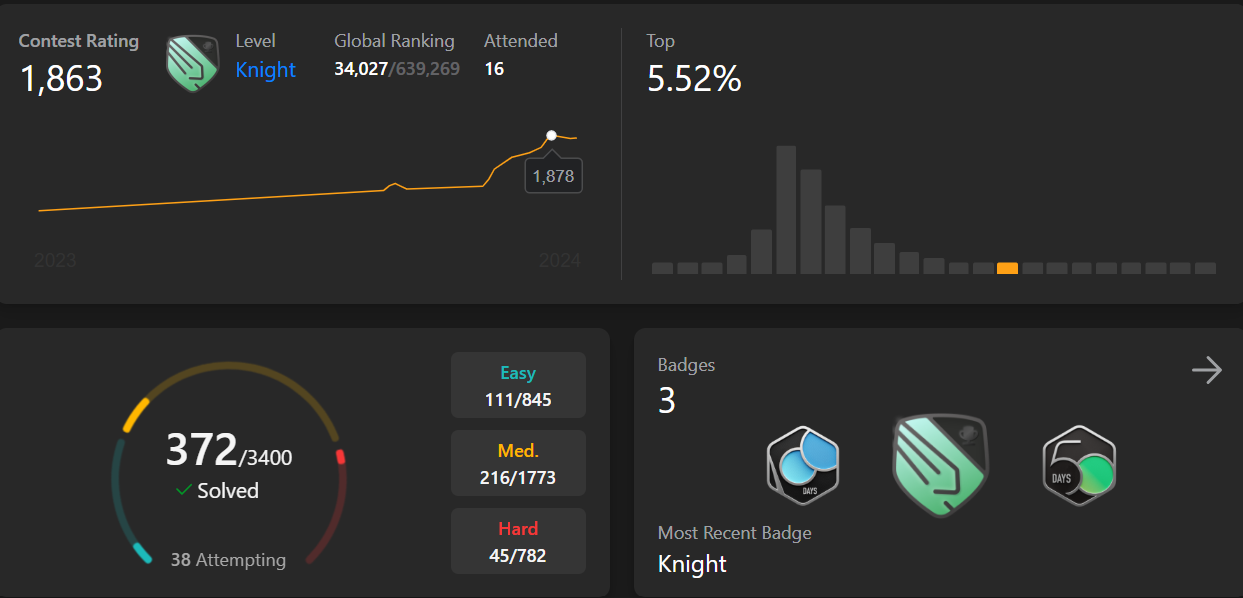
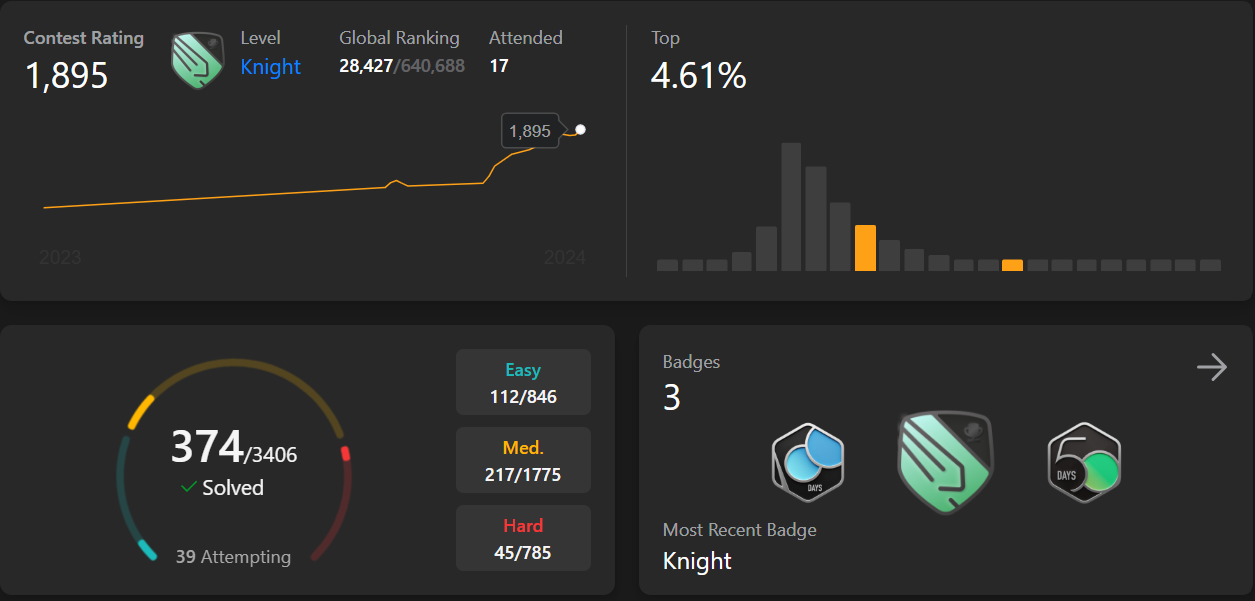
leetcode profile update

diff --git a/index.html b/index.html
@@ -272,7 +272,7 @@
             
                     <span class="dot">•</span>
             
-                    <div>@Knight | Top 5% | 350+ questions</div>
+                    <div>@Knight | Top 4% | 350+ questions</div>
                   </div>
             
                   <div class="project-links">
